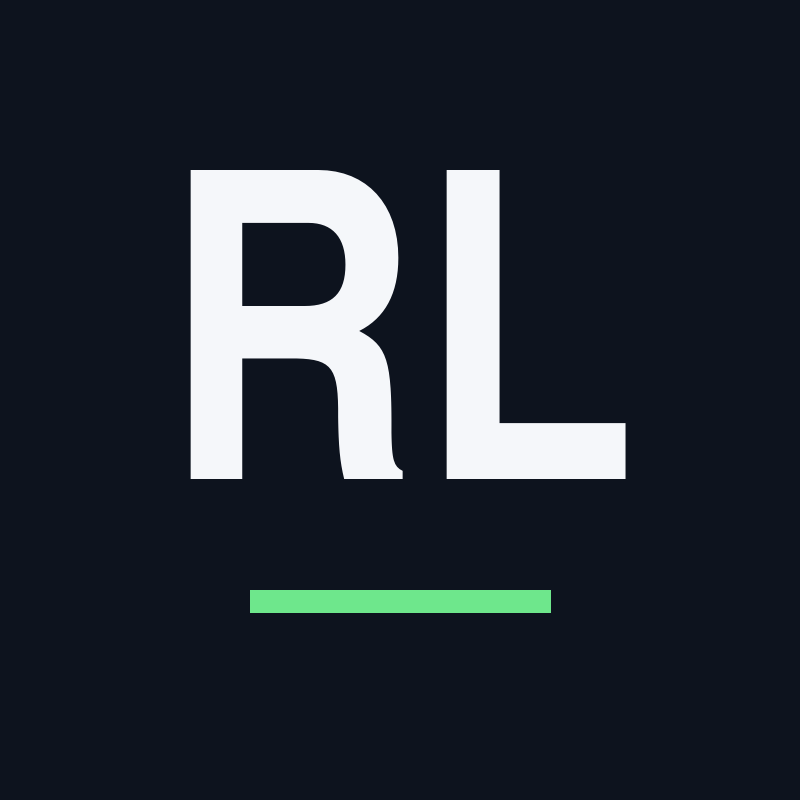
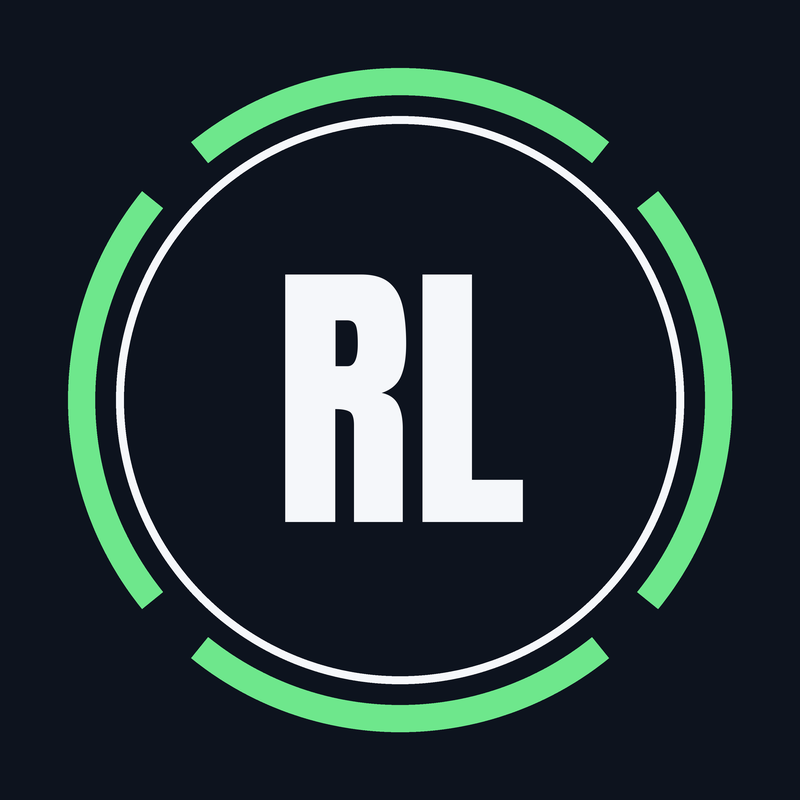
feat(F2): awatar, baner i znak wodny w wersjach wybranych przez właściciela
Grafiki powstają w brand.py z dokładnymi wymiarami i przezroczystością. Baner trzyma
tekst w strefie widocznej na telefonie, a pierścień logo ma grubsze linie, żeby znak
działał przy 32 px. CHANNEL_SETUP.md dostaje link do profilu MQL5.

Changed region(s): [[0.0625, 0.0625, 0.7812, 0.7812], [0.2188, 0.7188, 0.7812, 0.9375], [0.75, 0.2188, 0.9375, 0.7812]]

diff --git a/scripts/brand.py b/scripts/brand.py
@@ -1,5 +1,8 @@
 #!/usr/bin/env python3
-"""F2 — szkice wyglądu kanału: awatar, baner i znak wodny w palecie miniatur i grafik.
+"""F2 — wygląd kanału: awatar, baner i znak wodny, odtworzone w kodzie z wersji wybranych przez właściciela.
+
+Układ pochodzi ze szkiców z modelu graficznego (2026-11-05). Tu dostaje dokładne wymiary, poprawny tekst
+i przezroczystość. Wszystko rysujemy w czterokrotnej rozdzielczości, bo Pillow nie wygładza krawędzi.
 
     python3 scripts/brand.py --out assets/brand
 """
@@ -10,52 +13,87 @@ import argparse
 import sys
 from pathlib import Path
 
-from PIL import Image, ImageDraw
+from PIL import Image, ImageDraw, ImageFont
 
-sys.path.insert(0, str(Path(__file__).resolve().parent))
-from graphics import AKCENTY, BG, FONT_BOLD, FONT_ZWYKLY, GRID, PRZYGASZONY, TEXT, font  # noqa: E402
+KATALOG = Path(__file__).resolve().parent
+sys.path.insert(0, str(KATALOG))
+from graphics import AKCENTY, BG, FONT_ZWYKLY, GRID, PRZYGASZONY, TEXT, font  # noqa: E402
 
+FONT_MARKI = KATALOG.parent / "assets" / "fonts" / "Anton-Regular.ttf"
 IMIE_NAZWISKO = "RADOSLAW LUBAS"
 OPIS = "SYSTEMATIC TRADING LAB"
 HASLO = "I build and stress-test trading systems in public, and I publish what fails."
 AKCENT = AKCENTY["pass"]
 BANER = (2560, 1440)
-STREFA_BANERA = (1546, 423)    # to jedyny obszar widoczny na każdym urządzeniu
+STREFA_BANERA = (1546, 423)    # jedyny obszar widoczny na każdym urządzeniu
+SS = 4                         # nadpróbkowanie
+PRZERWY_PIERSCIENIA = (45, 135, 225, 315)   # stopnie; przerwy po skosie zostawiają czytelny okrąg
 
 
-def siatka(rysuj: ImageDraw.ImageDraw, szer: int, wys: int, krok: int) -> None:
-    for x in range(0, szer, krok):
-        rysuj.line([(x, 0), (x, wys)], fill=GRID, width=1)
-    for y in range(0, wys, krok):
-        rysuj.line([(0, y), (szer, y)], fill=GRID, width=1)
+def marka(rozmiar: int) -> ImageFont.FreeTypeFont:
+    return ImageFont.truetype(str(FONT_MARKI), rozmiar)
 
 
-def awatar(cel: Path) -> None:
-    obraz = Image.new("RGB", (800, 800), BG)
+def pierscien(rysuj: ImageDraw.ImageDraw, srodek: float, promien: float, grubosc: int,
+              kolor: tuple[int, int, int], przerwa: float = 0.0) -> None:
+    ramka = [srodek - promien, srodek - promien, srodek + promien, srodek + promien]
+    if not przerwa:
+        rysuj.ellipse(ramka, outline=kolor, width=grubosc)
+        return
+    for kat in PRZERWY_PIERSCIENIA:
+        rysuj.arc(ramka, kat + przerwa / 2, kat + 90 - przerwa / 2, fill=kolor, width=grubosc)
+
+
+def znak(rozmiar: int, tlo: bool = True) -> Image.Image:
+    """RL w pierścieniu. Linie są grube: ten sam znak ma działać przy 800 px i przy 32 px."""
+    r = rozmiar * SS
+    obraz = Image.new("RGBA", (r, r), (*BG, 255) if tlo else (0, 0, 0, 0))
     rysuj = ImageDraw.Draw(obraz)
-    rysuj.text((400, 385), "RL", font=font(FONT_BOLD, 430), fill=TEXT, anchor="mm")
-    rysuj.rectangle([250, 590, 550, 612], fill=AKCENT)
-    obraz.save(cel)
+    s = r / 2
+    if not tlo:     # znak wodny leży na filmie, więc sam niesie swoje tło
+        rysuj.ellipse([r * 0.01, r * 0.01, r * 0.99, r * 0.99], fill=(*BG, 240))
+    pierscien(rysuj, s, r * 0.415, max(1, round(r * 0.034)), AKCENT, przerwa=12)
+    pierscien(rysuj, s, r * 0.355, max(1, round(r * 0.010)), TEXT)
+    rysuj.text((s, s), "RL", font=marka(round(r * 0.36)), fill=TEXT, anchor="mm")
+    return obraz.resize((rozmiar, rozmiar), Image.LANCZOS)
+
+
+def diagram_etapow(rysuj: ImageDraw.ImageDraw, szer: int, y: int) -> None:
+    """Etapy testu; jedna strategia odpada po drodze. Leży poniżej strefy, więc na telefonie po prostu znika."""
+    ksztalty = "oosososs"
+    krok, r, odrzucony = 200, 22, 4
+    x0 = (szer - krok * (len(ksztalty) - 1)) // 2
+    for i, k in enumerate(ksztalty):
+        x = x0 + i * krok
+        if k == "o":
+            rysuj.ellipse([x - r, y - r, x + r, y + r], outline=TEXT, width=4)
+        else:
+            rysuj.rectangle([x - r, y - r, x + r, y + r], outline=TEXT, width=4)
+        if i < len(ksztalty) - 1:
+            xs, xk = x + r + 10, x + krok - r - 10
+            rysuj.line([(xs, y), (xk, y)], fill=AKCENT, width=4)
+            rysuj.polygon([(xk, y), (xk - 16, y - 10), (xk - 16, y + 10)], fill=AKCENT)
+        if i == odrzucony:
+            rysuj.line([(x, y + r + 6), (x, y + 72), (x + 62, y + 72)], fill=TEXT, width=4)
+            xk = x + 90
+            rysuj.line([(xk - 16, y + 56), (xk + 16, y + 88)], fill=TEXT, width=5)
+            rysuj.line([(xk - 16, y + 88), (xk + 16, y + 56)], fill=TEXT, width=5)
 
 
 def baner(cel: Path) -> None:
     szer, wys = BANER
     obraz = Image.new("RGB", BANER, BG)
     rysuj = ImageDraw.Draw(obraz)
-    siatka(rysuj, szer, wys, 80)
+    for y in range(0, wys, 80):
+        rysuj.line([(0, y), (szer, y)], fill=GRID, width=2)
     gora = (wys - STREFA_BANERA[1]) // 2
-    rysuj.text((szer // 2, gora + 105), IMIE_NAZWISKO, font=font(FONT_BOLD, 136), fill=TEXT, anchor="mm")
-    rysuj.text((szer // 2, gora + 225), OPIS, font=font(FONT_BOLD, 68), fill=AKCENT, anchor="mm")
-    rysuj.text((szer // 2, gora + 325), HASLO, font=font(FONT_ZWYKLY, 42), fill=PRZYGASZONY, anchor="mm")
-    obraz.save(cel, quality=92)
-
-
-def znak_wodny(cel: Path) -> None:
-    obraz = Image.new("RGBA", (150, 150), (0, 0, 0, 0))
-    rysuj = ImageDraw.Draw(obraz)
-    rysuj.rounded_rectangle([4, 4, 146, 146], radius=26, fill=(*BG, 235))
-    rysuj.text((75, 68), "RL", font=font(FONT_BOLD, 82), fill=TEXT, anchor="mm")
-    rysuj.rectangle([44, 116, 106, 122], fill=AKCENT)
+    # pas pod tekstem, żeby linie tła nie przecinały liter
+    rysuj.rectangle([(szer - STREFA_BANERA[0]) // 2, gora, (szer + STREFA_BANERA[0]) // 2, gora + STREFA_BANERA[1]],
+                    fill=BG)
+    rysuj.text((szer // 2, gora + 125), IMIE_NAZWISKO, font=marka(170), fill=TEXT, anchor="mm")
+    rysuj.text((szer // 2, gora + 275), OPIS, font=font(FONT_ZWYKLY, 74), fill=PRZYGASZONY, anchor="mm")
+    rysuj.text((szer // 2, gora + 365), HASLO, font=font(FONT_ZWYKLY, 44), fill=TEXT, anchor="mm")
+    diagram_etapow(rysuj, szer, gora + STREFA_BANERA[1] + 60)
     obraz.save(cel)
 
 
@@ -64,9 +102,9 @@ def main() -> None:
     ap.add_argument("--out", type=Path, default=Path("assets/brand"))
     a = ap.parse_args()
     a.out.mkdir(parents=True, exist_ok=True)
-    awatar(a.out / "awatar.png")
+    znak(800).convert("RGB").save(a.out / "awatar.png")
     baner(a.out / "baner.png")
-    znak_wodny(a.out / "znak-wodny.png")
+    znak(150, tlo=False).save(a.out / "znak-wodny.png")
     print(f"OK: {a.out}/awatar.png, baner.png, znak-wodny.png")
 
 

diff --git a/docs/CHANNEL_SETUP.md b/docs/CHANNEL_SETUP.md
@@ -1,6 +1,6 @@
 # Ustawienia kanału (do ręcznego wprowadzenia w YouTube Studio)
 
-Wartości do wklejenia. `<LINK_MQL5>` i `<EMAIL>` uzupełnia właściciel. Grafiki: `assets/brand/` (`scripts/brand.py`).
+Wartości do wklejenia. `<EMAIL>` uzupełnia właściciel: osobny adres kontaktowy, nie ten do logowania na konto. Grafiki: `assets/brand/` (`scripts/brand.py`).
 
 ## Tożsamość
 - Nazwa: **Radoslaw Lubas - Systematic Trading Lab**
@@ -17,7 +17,7 @@ English videos with English and Polish subtitles.
 
 Historical results, not investment advice. Past performance does not guarantee future results.
 
-Free MT5 tools and my MQL5 profile: <LINK_MQL5>
+Free MT5 tools and my MQL5 profile: https://www.mql5.com/en/users/zanczo
 Contact: <EMAIL>
 ```
 
@@ -31,12 +31,12 @@ Filmy po angielsku, z napisami angielskimi i polskimi.
 
 Wyniki historyczne, nie porada inwestycyjna. Wyniki z przeszłości nie gwarantują przyszłych.
 
-Darmowe narzędzia MT5 i mój profil MQL5: <LINK_MQL5>
+Darmowe narzędzia MT5 i mój profil MQL5: https://www.mql5.com/en/users/zanczo
 Kontakt: <EMAIL>
 ```
 
 ## Linki na kanale
-- MQL5: `<LINK_MQL5>`
+- MQL5: `https://www.mql5.com/en/users/zanczo`
 - Bez quantinvest.co do odwołania (`CLAUDE.md`).
 
 ## Domyślne ustawienia przesyłania
@@ -54,7 +54,7 @@ Tekst domyślnego opisu filmu:
 ```text
 Historical results, not investment advice. Past performance does not guarantee future results.
 
-Free MT5 tools: <LINK_MQL5>
+Free MT5 tools: https://www.mql5.com/en/users/zanczo
 Subtitles: English, Polski.
 ```
 

diff --git a/docs/PIPELINE.md b/docs/PIPELINE.md
@@ -99,8 +99,8 @@ idempotentny, logowany, z powiadomieniem przy błędzie.
 | # | Element | Status | Opis |
 |---|---|---|---|
 | F1 | Konto | ⬜ | **Konto marki (Brand Account)** — możliwość dodania menedżerów, oddzielenie od prywatnego Gmaila; weryfikacja telefonu (własne miniatury, filmy >15 min) |
-| F2 | Wygląd | 🟡 | szkice z `scripts/brand.py` w `assets/brand/`: awatar 800×800, baner 2560×1440 (bezpieczna strefa 1546×423), znak wodny 150×150. Do zatwierdzenia; ustawia się w Studio. Zwiastun kanału: film #1 |
-| F3 | Opisy | 🟡 | `docs/CHANNEL_SETUP.md`: opis EN + PL. Brakuje linku do profilu mql5.com i e-maila kontaktowego |
+| F2 | Wygląd | 🟡 | `scripts/brand.py` → `assets/brand/`: awatar 800×800 (RL w pierścieniu), baner 2560×1440 (tekst w strefie 1546×423, diagram etapów poza nią), znak wodny 150×150 z przezroczystością. Wersje wybrane przez właściciela 2026-11-05; do wgrania w Studio. Zwiastun kanału: film #1 |
+| F3 | Opisy | 🟡 | `docs/CHANNEL_SETUP.md`: opis EN + PL z linkiem do profilu mql5.com. Brakuje e-maila kontaktowego |
 | F4 | Domyślne ustawienia przesyłania | 🟡 | `docs/CHANNEL_SETUP.md`: wartości do ręcznego ustawienia w Studio |
 | F5 | Układ kanału | ⬜ | sekcje i playlisty filarów |
 | F6 | Brand kit | 🟡 | kolory i font są; dodać: logo/awatar, dźwięk identyfikacji, szablon dolnej belki, szablon planszy końcowej (`assets/brand/`) |
